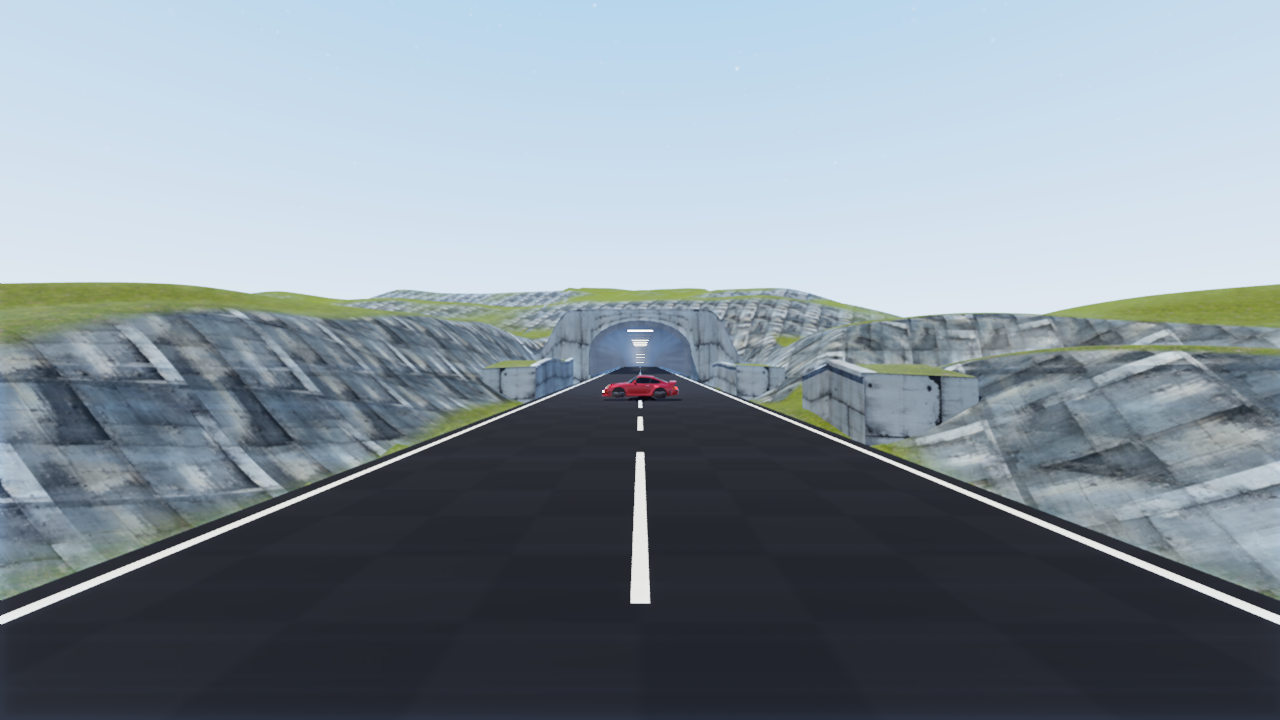
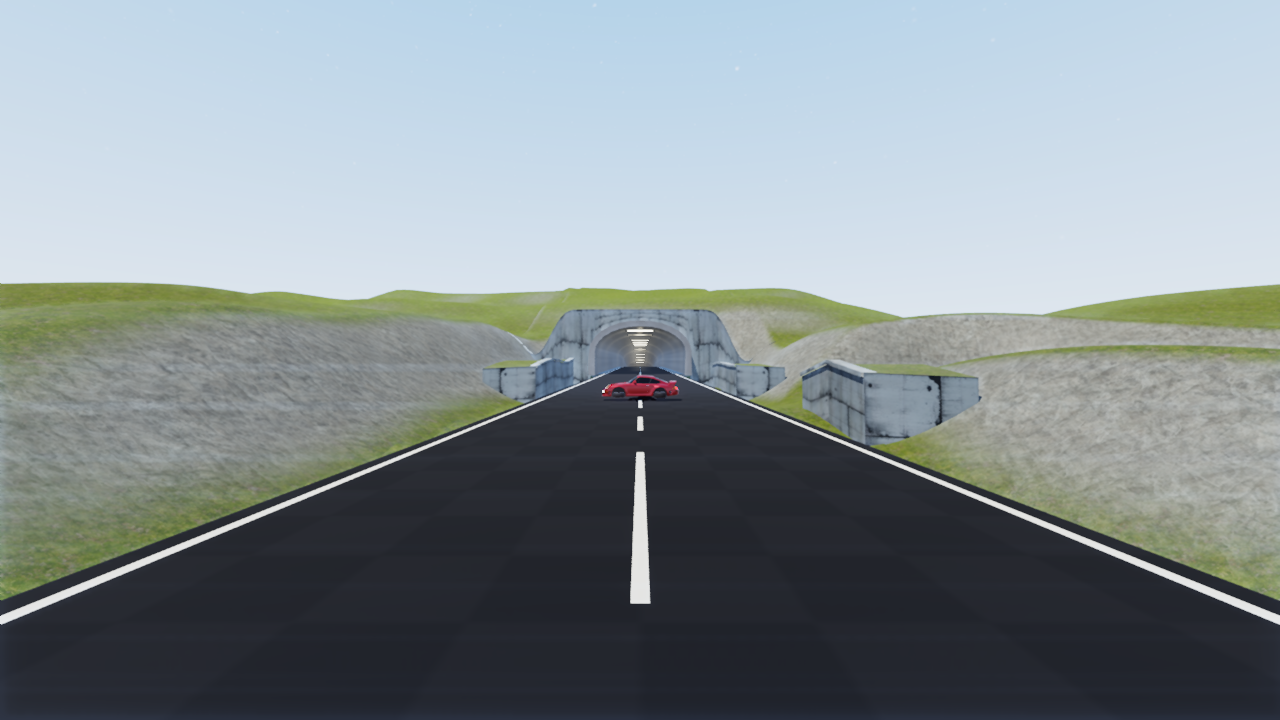
fix(tunnel): the surfacing defects were THREE BROKEN ASSETS, not filtering
Anisotropy was the leading hypothesis for the bore smear and it is INNOCENT.
VulkanRenderDevice.cpp:100 already requires samplerAnisotropy as a device
feature and vk_resources.cpp already set anisotropyEnable=VK_TRUE on every
material sampler. It was capped at a hardcoded 8, now raised to the device
limit (queried, not assumed — 16 on the RTX), which is a real but small win.
Nothing here is engine-wide broken filtering. The UVs are innocent too:
emitSweep() runs U along the arc and V along the path, BOTH scaled by the same
kBoreUV, so the bore mapping is already conformal and world-proportional.

The actual causes were three bad textures.

1. THE BORE LINING — A CORRUPT NORMAL MAP.
   cc_cement_white/normal.png had a DESTROYED BLUE CHANNEL: mean 14.8 where
   every one of the other 33 sets in the library sits at ~252. It was the only
   broken normal map in assets/surface_library, and c655c3bc moved the bore
   lining onto exactly that set. B=14.8 decodes to z = -0.88, i.e. the normal
   pointed INTO the surface, so N.L was garbage across the whole tube. R and G
   were intact (mean exactly 127.5, x^2+y^2 never exceeding 1), so Z was fully
   recoverable: B = sqrt(1 - x^2 - y^2). That is what killed the cloud-grey
   blotching on the ceiling and upper walls — it was never "macro variation at
   the wrong frequency", it was inverted normals.
   The set was also the 2nd-loudest normal in the library (XY std 42, 2.3x the
[…]

Changed region(s): [[0.0, 0.3972, 1.0, 0.825]]

diff --git a/app/terrain.cpp b/app/terrain.cpp
@@ -319,9 +319,18 @@ x3::rhi::TextureHandle loadTerrainAlbedo(x3::rhi::IRenderDevice& device,
 //
 // Real 2K albedos (curated via tools/tex_curate.py -> assets/surface_library/,
 // published via tools/asset_store.py) replace the old 64px procedural-noise
-// fill (W3-4's placeholder): rock reuses the already-game-ready sr_concrete_01
-// set; grass/sand/snow are new sets picked from docs/tex_catalog.json:
+// fill (W3-4's placeholder). Sets picked from docs/tex_catalog.json:
 //   grass -> terrain_grass (Rocky Hills Environment - Whitebark Pine, GrassTileRHEP)
+//   rock  -> terrain_rock  (Rocky Hills Environment - Whitebark Pine, CliffTileRHEP)
+//     ROCK WAS sr_concrete_01, AND THAT IS WHY THE GROUND HAD A GRID IN IT.
+//     sr_concrete_01 is a photo of a CONCRETE PANEL WALL - flat slabs divided by
+//     straight vertical and horizontal joints, with form-tie bolt holes. Splatted
+//     onto terrain and tiled every 5.56 m it produced the rectangular grid
+//     marching up the cut faces in 08_exit_portal and the grey-blue slab blobs
+//     scattered over the field in 04_saddle. It was never a rock texture; it was
+//     borrowed because it was "already game-ready". CliffTileRHEP is a purpose-
+//     built seamless natural cliff tile from the SAME pack as the grass, so the
+//     two read as one landscape.
 //   sand  -> terrain_sand  (Landscape Ground Pack 3, T_ground_sand_01)
 //   snow  -> terrain_snow  (Ancient Desert Town, MarbleWhite00 -- the catalog has
 //            NO texture set with "snow"/"ice"/"arctic"/"frost" anywhere in its
@@ -329,7 +338,7 @@ x3::rhi::TextureHandle loadTerrainAlbedo(x3::rhi::IRenderDevice& device,
 //            substitute and is used deliberately, not by oversight)
 x3::rhi::TextureHandle makeGroundTexture(x3::rhi::IRenderDevice& device) {
     auto grass = loadTerrainAlbedo(device, "terrain_grass", 1001u,  78, 116,  56, 18); // green
-    auto rock  = loadTerrainAlbedo(device, "sr_concrete_01", 2002u, 104, 100,  92, 24); // grey-brown
+    auto rock  = loadTerrainAlbedo(device, "terrain_rock",  2002u, 104, 100,  92, 24); // grey-brown
     auto snow  = loadTerrainAlbedo(device, "terrain_snow",  3003u, 222, 226, 235, 14); // bright white-blue
     auto sand  = loadTerrainAlbedo(device, "terrain_sand",  4004u, 178, 158, 118, 18); // tan
     x3::rhi::TextureHandle marker =

diff --git a/engine/rhi/vk/vk_resources.cpp b/engine/rhi/vk/vk_resources.cpp
@@ -1375,7 +1375,21 @@ bool VulkanRenderDevice::createSampledTexture(const void* rgba8, uint32_t w, uin
         sci.addressModeW = VK_SAMPLER_ADDRESS_MODE_REPEAT;
         sci.maxLod = VK_LOD_CLAMP_NONE;
         sci.anisotropyEnable = VK_TRUE;   // sharpen grazing-angle surfaces (feature enabled at device init)
-        sci.maxAnisotropy = 8.0f;         // well under the RTX limit (16)
+        // Take the DEVICE MAXIMUM rather than a hardcoded 8. A 330 m tunnel bore
+        // is the worst case in the game for grazing-angle minification: the
+        // along-axis footprint outruns the across-arc one by orders of magnitude,
+        // and every tap of headroom past 8:1 is visible on the lining. 16 is the
+        // limit on every GPU we target, but query it so this can never exceed
+        // the device's real cap (a maxAnisotropy above limits is a VUID error).
+        {
+            static float sMaxAniso = 0.0f;
+            if (sMaxAniso == 0.0f) {
+                VkPhysicalDeviceProperties props{};
+                vkGetPhysicalDeviceProperties(m_dev.physical_device, &props);
+                sMaxAniso = props.limits.maxSamplerAnisotropy;
+            }
+            sci.maxAnisotropy = sMaxAniso;
+        }
         if (vkCreateSampler(m_dev.device, &sci, nullptr, &out.sampler) != VK_SUCCESS) {
             vkDestroyImageView(m_dev.device, out.view, nullptr);
             vmaDestroyImage(m_alloc, out.image, out.alloc); out = Texture{}; return false;
